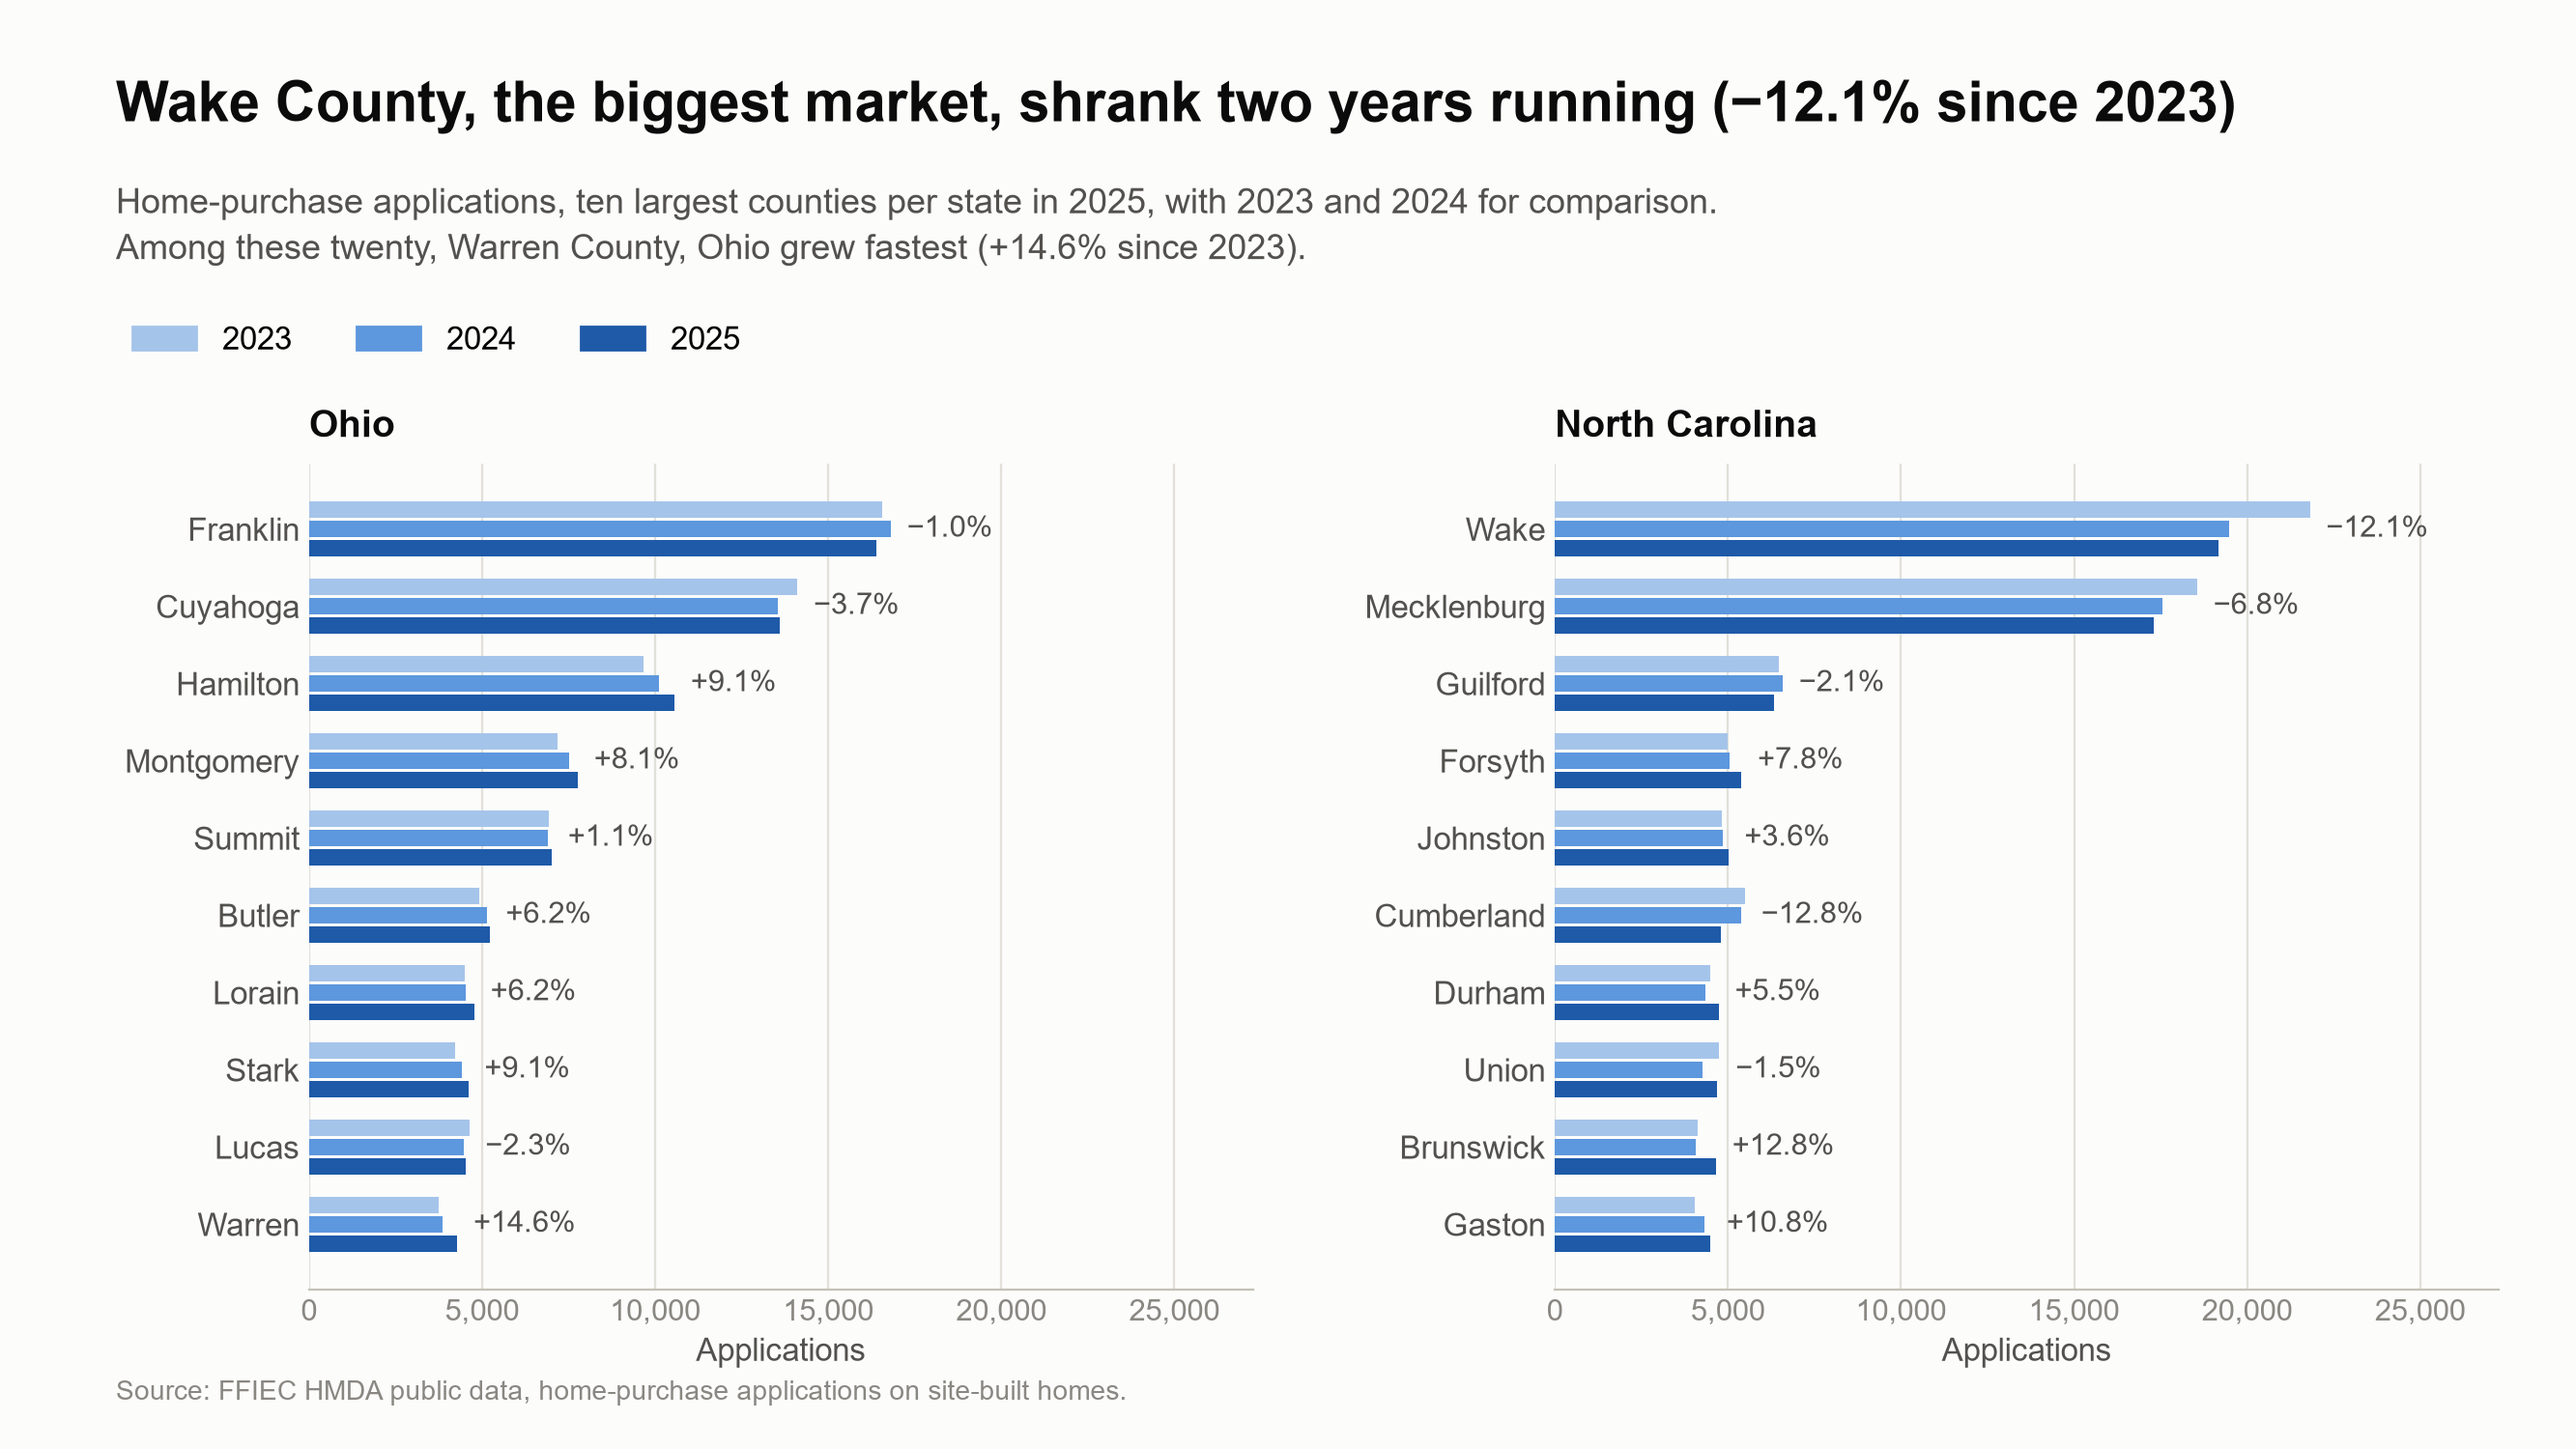
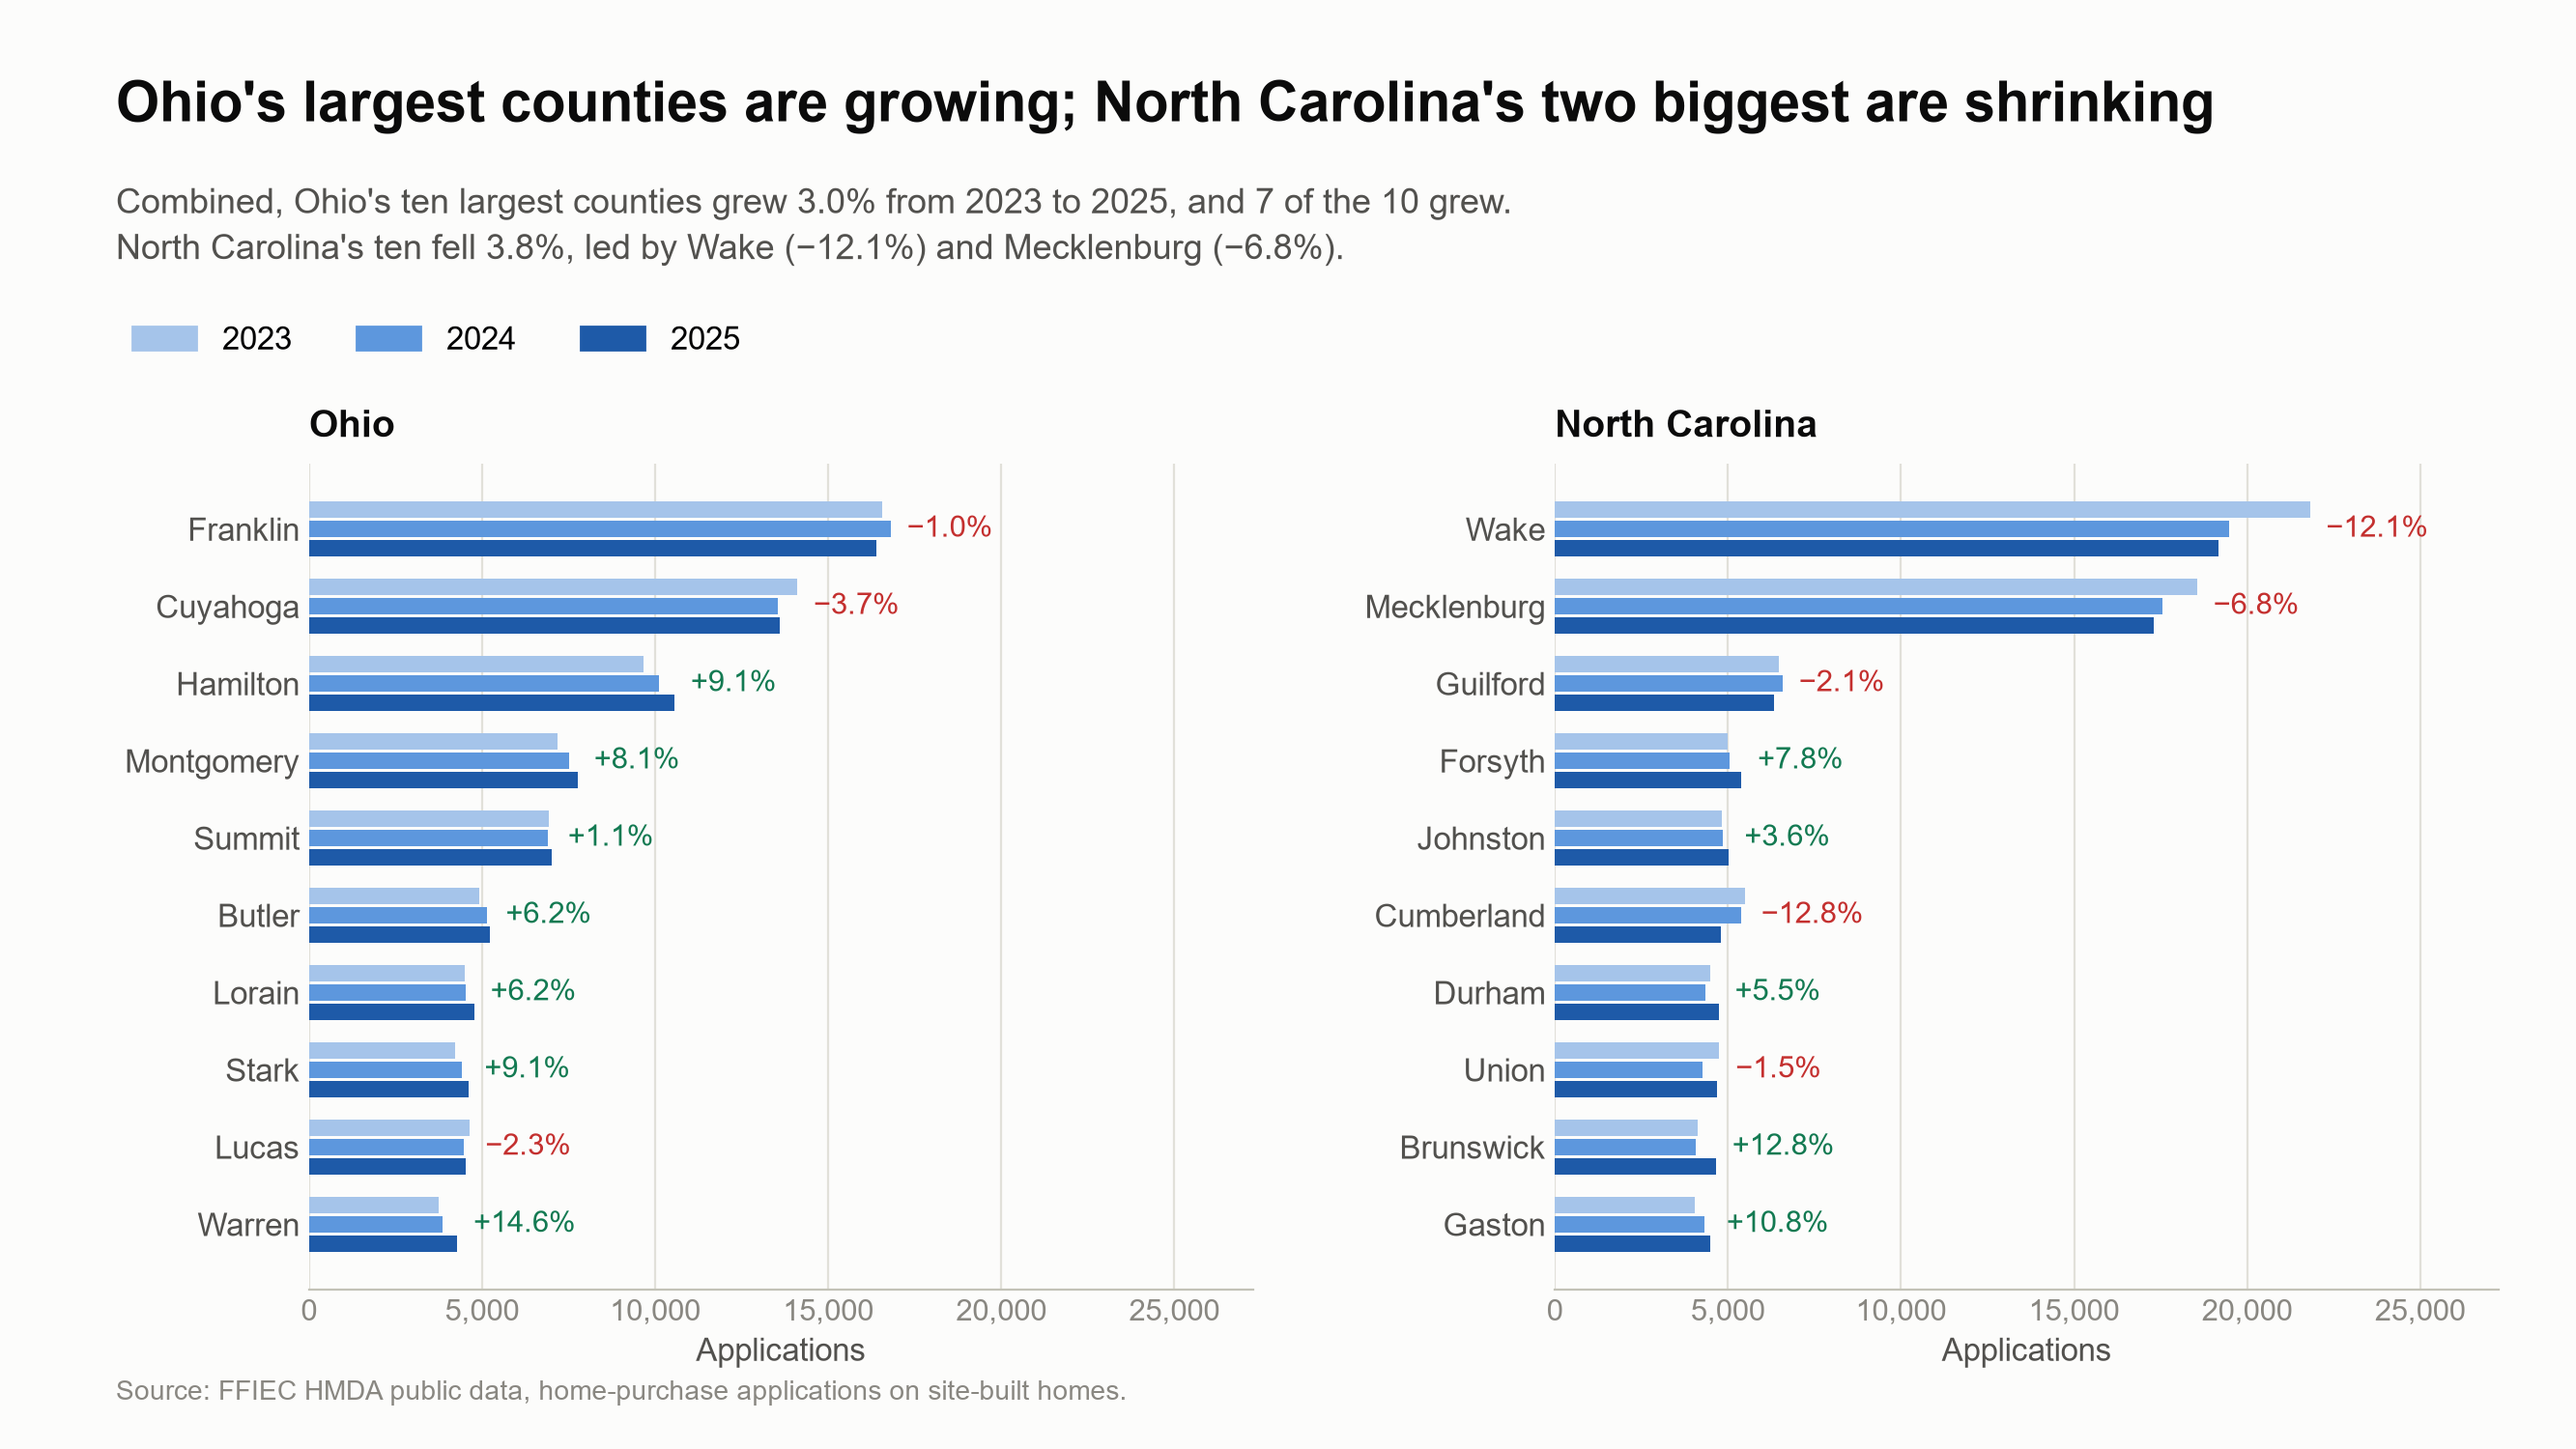
q1 graph tweaks

diff --git a/projects/P0/charts/q1_demand.py b/projects/P0/charts/q1_demand.py
@@ -16,6 +16,8 @@ SURFACE, INK, INK_2, MUTED = '#fcfcfb', '#0b0b0b', '#52514e', '#898781'
 GRID, AXIS = '#e1e0d9', '#c3c2b7'
 # One colour per year, light to dark, so the latest year stands out.
 YEAR_COLOR = {2023: '#a5c4ea', 2024: '#5d97dd', 2025: '#1e5aa8'}
+# Growth labels: green up, red down. Darker than Tristan's AQUA/RED so small text stays readable.
+UP, DOWN = '#137a52', '#c4302f'
 
 plt.rcParams.update({
     'font.family': ['Arial', 'DejaVu Sans'],
@@ -57,19 +59,11 @@ df.to_csv(ROOT / 'charts' / 'data' / 'q1_demand.csv', index=False)
 
 top = df[df.rank_in_state <= 10]
 
-# Title and subtitle are written from the numbers, so they stay true if the data changes.
-big = top.sort_values('apps_2025', ascending=False).iloc[0]
-fast = top.sort_values('growth_pct', ascending=False).iloc[0]
-if big.apps_2024 < big.apps_2023 and big.apps_2025 < big.apps_2024:
-    trend = 'shrank two years running'
-elif big.apps_2024 > big.apps_2023 and big.apps_2025 > big.apps_2024:
-    trend = 'grew two years running'
-else:
-    trend = 'changed direction in 2025'
-title = f'{big.county_name}, the biggest market, {trend} ({signed(big.growth_pct)}% since 2023)'
-subtitle = (f'Home-purchase applications, ten largest counties per state in 2025, '
-            f'with 2023 and 2024 for comparison.\nAmong these twenty, '
-            f'{fast.county_name}, {fast.state_name} grew fastest ({signed(fast.growth_pct)}% since 2023).')
+# Hand-written takeaway for the Ohio vs North Carolina decision. Numbers checked against
+# charts/data/q1_demand.csv; re-check them if the data changes.
+title = "Ohio's largest counties are growing; North Carolina's two biggest are shrinking"
+subtitle = ("Combined, Ohio's ten largest counties grew 3.0% from 2023 to 2025, and 7 of the 10 grew.\n"
+            "North Carolina's ten fell 3.8%, led by Wake (−12.1%) and Mecklenburg (−6.8%).")
 
 fig = plt.figure(figsize=(13.33, 7.5))
 fig.text(0.045, 0.945, title, size=21, weight='bold', color=INK, va='top')
@@ -91,7 +85,8 @@ for ax, state in zip(axes, ['Ohio', 'North Carolina']):
     longest = group[['apps_2023', 'apps_2024', 'apps_2025']].max(axis=1)
     for pos, end, pct in zip(y, longest, group.growth_pct):
         ax.annotate(f'{signed(pct)}%', (end, pos), xytext=(6, 0),
-                    textcoords='offset points', va='center', size=11, color=INK_2)
+                    textcoords='offset points', va='center', size=11,
+                    color=UP if pct > 0 else DOWN)
 
     ax.set_yticks(y, group.county_name.str.removesuffix(' County'))
     ax.set_title(state, loc='left', size=14, weight='bold', color=INK, pad=10)
